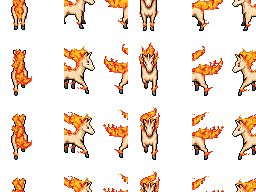
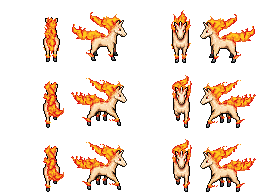
fix: compose 2x2 outfit sprites from bottom-right like OTClient
Charizard and Rapidash were exported with quadrants pasted top-left,
showing only duplicated leg tiles in-game. Use OTClient tile placement
((width-1-w)*32, (height-1-h)*32) and re-export 64x64 sheets.

diff --git a/tools/extract_ruby_sprites.py b/tools/extract_ruby_sprites.py
@@ -312,7 +312,10 @@ def compose_frame(group: FrameGroup, mm: mmap.mmap, direction: int, phase: int) 
                 idx = group_sprite_index(group, direction, 0, 0, layer, phase, w, h)
                 sid = group.sprite_ids[idx] if 0 <= idx < len(group.sprite_ids) else 0
                 tile = decode_sprite(mm, sid)
-                frame.paste(tile, (w * 32, h * 32), tile)
+                # OTClient: feet on tile, compose from bottom-right quadrant.
+                px = (group.width - 1 - w) * 32
+                py = (group.height - 1 - h) * 32
+                frame.paste(tile, (px, py), tile)
     return frame
 
 
